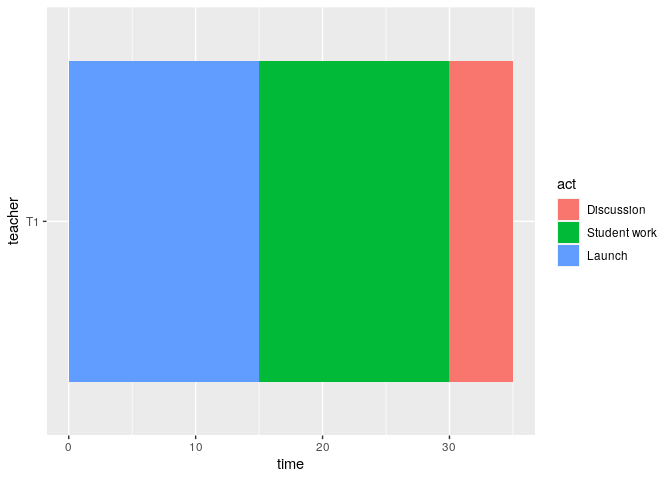
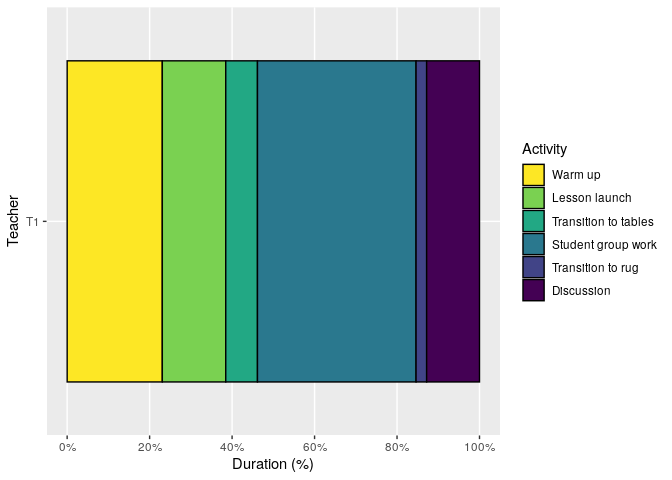
changes

diff --git a/bar_graphs.md b/bar_graphs.md
@@ -17,17 +17,37 @@ library(tidyverse)
 
 ``` r
 tribble(
-  ~school, ~teacher, ~act,           ~time,
-  "S2",    "T1",     "Launch",       15,
-  "S2",    "T1",     "Student work", 15,
-  "S2",    "T1",     "Discussion",   5
-) %>% 
+  ~school, ~teacher, ~act,                   ~time,
+  "S2",    "T1",     "Warm up",              9,
+  "S2",    "T1",     "Lesson launch",        6,
+  "S2",    "T1",     "Transition to tables", 3,
+  "S2",    "T1",     "Student group work",   15,
+  "S2",    "T1",     "Transition to rug",    1,
+  "S2",    "T1",     "Discussion",           5
+) %>%
+  group_by(school, teacher) %>% 
+  mutate(
+   time = time / sum(time)
+  ) %>%
+  ungroup %>% 
   mutate(
     act = act %>% fct_inorder() %>% fct_rev()
   ) %>% 
   ggplot(aes(teacher, time, fill = act)) +
-  geom_col(position = "stack") +
-  coord_flip()
+  geom_col(position = "stack", color = "black") +
+  scale_y_continuous(
+    breaks = seq(0, 1, 0.2),
+    minor_breaks = NULL,
+    labels = scales::percent_format(accuracy = 1)
+  ) +
+  scale_fill_viridis_d() +
+  guides(fill = guide_legend(reverse = T)) +
+  coord_flip() +
+  labs(
+    x = "Teacher",
+    y = "Duration (%)",
+    fill = "Activity"
+  )
 ```
 
 ![](bar_graphs_files/figure-gfm/unnamed-chunk-2-1.png)<!-- -->
